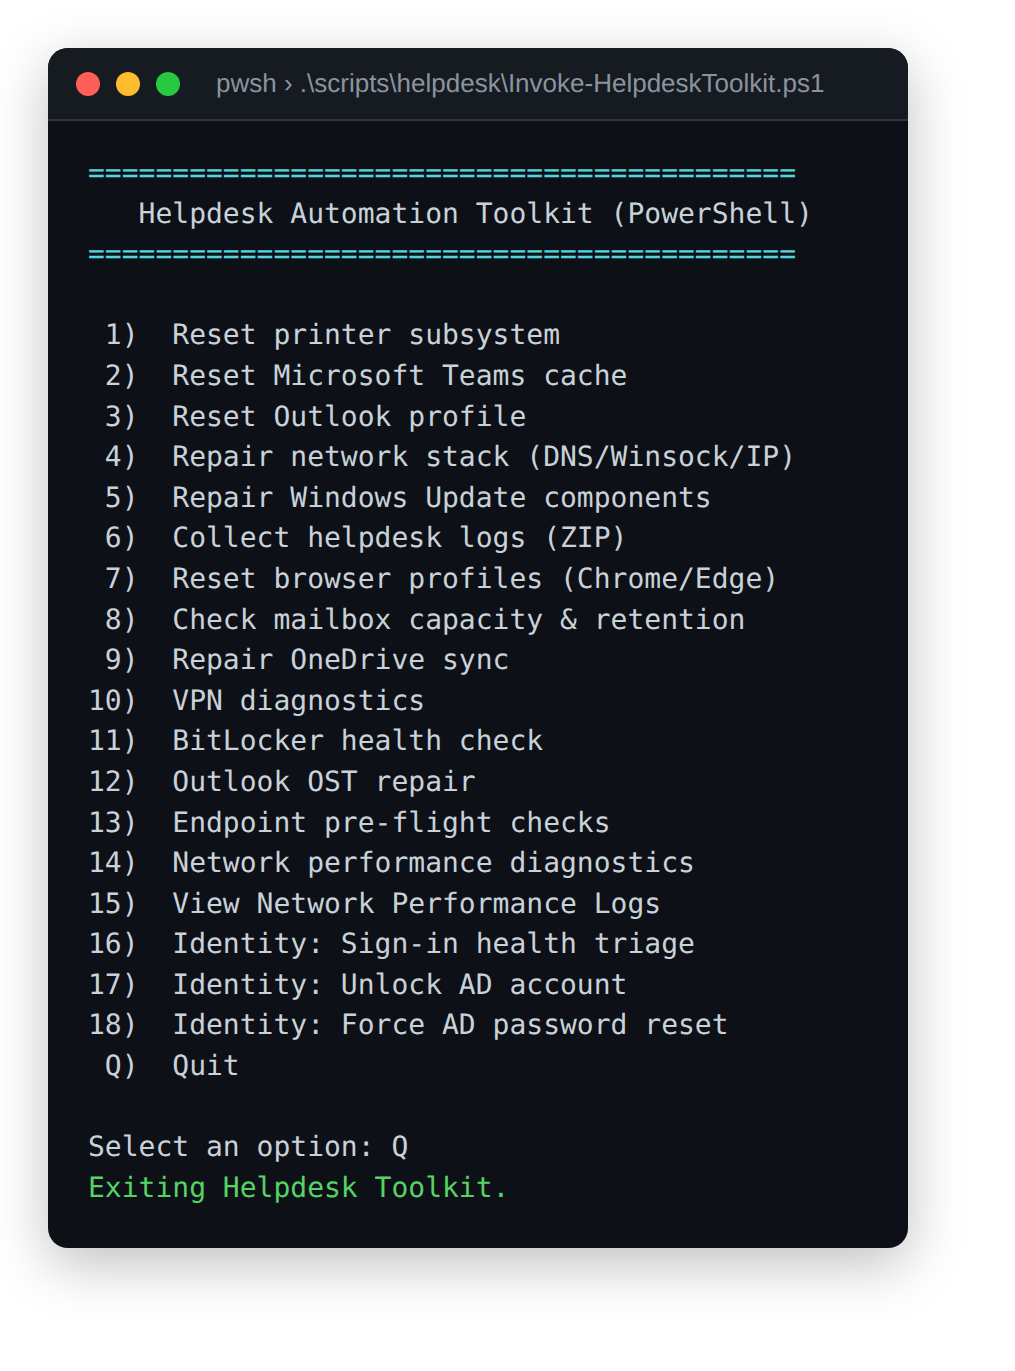
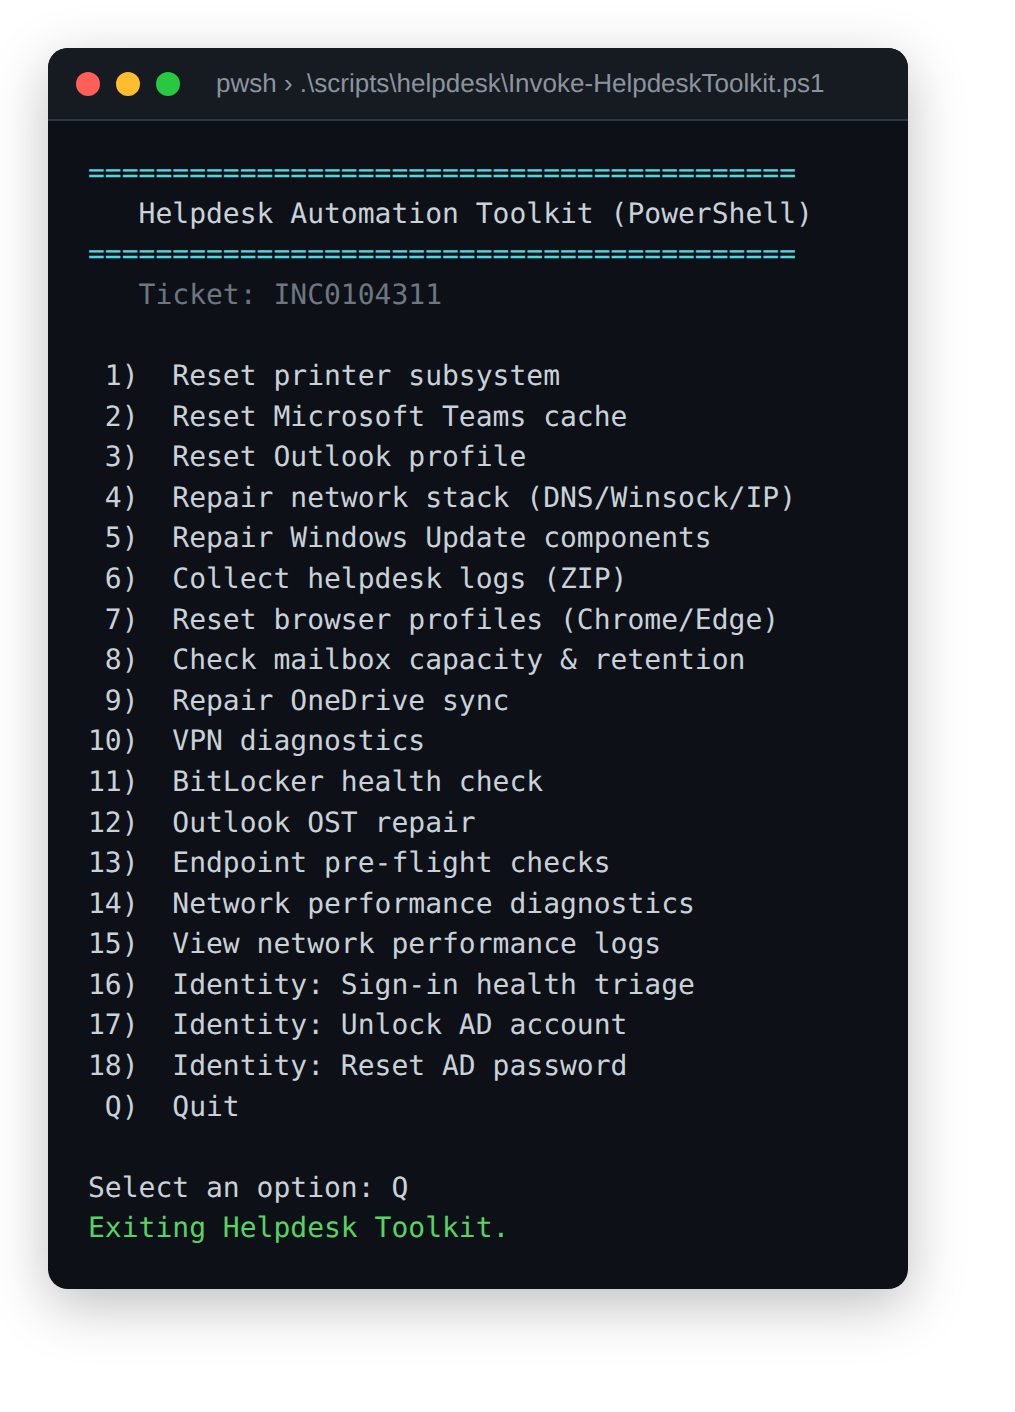
Add demo GIF and usage screenshot; document offboarding, remediations, metrics
- docs/images/demo.gif: real captured output (Intune baseline dry run,
  toolkit usage totals and top fixes, offboarding test run); operator
  name and home path redacted. Replaces the static hero images.
- docs/images/report-toolkit-usage.png and a refreshed menu screenshot
  (ticket prompt, new labels).
- README: offboarding section, Intune Remediations table, "Measuring
  impact" section, updated architecture diagram, design decisions,
  test coverage, layout and roadmap.
- Export-PlaybookCsv shared CSV helper (no -NoTypeInformation warning
  on PowerShell 7) used across both modules and app removal.
- Versions: PowerShellPlaybook 0.4.0, Extensions 0.2.1; CHANGELOG.

diff --git a/README.md b/README.md
@@ -5,18 +5,17 @@
 [![License: MIT](https://img.shields.io/badge/License-MIT-blue.svg)](LICENSE)
 
 PowerShell automation for the work that fills a service desk queue and an infrastructure team's week:
-repeatable endpoint repairs, identity triage, and health reports across Active Directory, Entra ID, Intune,
-Exchange Online, VMware, Azure and AWS.
+repeatable endpoint repairs, user offboarding, Intune remediations that fix problems before anyone calls,
+and health reports across Active Directory, Entra ID, Intune, Exchange Online, VMware, Azure and AWS.
+It also measures itself: every helpdesk fix is logged so you can report success rates and hours saved.
 
 It is built the way production tooling should be: every state-changing action supports `-WhatIf`,
 reports never fabricate data, everything runs on both Windows PowerShell 5.1 and PowerShell 7,
 and every change is linted and tested on Windows and Linux in CI.
 
-<p>
-  <img src="docs/images/helpdesk-toolkit-menu.png" alt="Helpdesk Toolkit menu" width="38%">
-  &nbsp;
-  <img src="docs/images/report-vmware-health.png" alt="VMware health report" width="58%">
-</p>
+<img src="docs/images/demo.gif" alt="Terminal demo: Intune baseline with -Enforce -WhatIf, toolkit usage totals, offboarding tests" width="100%">
+
+<sub>Real output recorded from this repo: an Intune baseline dry run, the toolkit usage report, and the offboarding test suite.</sub>
 
 ---
 
@@ -24,14 +23,18 @@ and every change is linted and tested on Windows and Linux in CI.
 
 | Component | Path | What it is for |
 |---|---|---|
-| **Helpdesk Toolkit** | `scripts/helpdesk/` | Menu-driven first-line fixes and diagnostics, run on the user's machine |
-| **`PowerShellPlaybook` module** | `src/` | Identity, security and endpoint reporting (AD, Entra ID, Intune, Exchange Online, Windows) |
+| **Helpdesk Toolkit** | `scripts/helpdesk/` | Menu-driven first-line fixes and diagnostics, run on the user's machine; every run is logged |
+| **Intune Remediations** | `remediations/` | Detect/fix script pairs Intune runs on every device on a schedule |
+| **`PowerShellPlaybook` module** | `src/` | Offboarding, identity, security and endpoint reporting (AD, Entra ID, Intune, Exchange Online, Windows), toolkit usage metrics |
 | **`PowerShell-Playbook.Extensions` module** | `src/` | Infrastructure and cloud health (patching, backups, vSphere, Azure/AWS, Microsoft 365) |
 | **Automation scripts** | `scripts/automation/`, `scripts/` | Standalone jobs: bulk user onboarding, standard software builds, AD exports, endpoint hardening |
 
 ### Helpdesk Toolkit
 
 `Invoke-HelpdeskToolkit.ps1` is a numbered menu over these scripts; each can also be run on its own.
+It asks for the ticket ID once per session.
+
+<img src="docs/images/helpdesk-toolkit-menu.png" alt="Helpdesk Toolkit menu" width="38%">
 
 | Repairs | Diagnostics | Identity |
 |---|---|---|
@@ -43,12 +46,42 @@ and every change is linted and tested on Windows and Linux in CI.
 | Chrome/Edge profile cache | Log bundle (ZIP, ticket-ID named) | |
 | OneDrive sync | | |
 
-Diagnostic and identity scripts log to `out/HelpdeskLogs/`, with the ticket ID in the file name when one is passed (`-TicketId INC12345`).
+Every fix run through the menu appends one JSON line to `out/HelpdeskLogs/toolkit-runs.jsonl`: fix, ticket,
+technician, duration and outcome (Success / Failed / Cancelled). See [Measuring impact](#measuring-impact).
+
+### Offboarding
+
+```powershell
+Invoke-UserOffboarding -Identity jdoe -TicketId CHG0012345 -WhatIf      # full plan, nothing changed
+Invoke-UserOffboarding -Identity jdoe -TicketId CHG0012345 -DisabledOU 'OU=Disabled Users,DC=corp,DC=local'
+Undo-UserOffboarding  -SnapshotPath .\reports\Offboarding-jdoe-CHG0012345-....snapshot.json
+```
+
+1. **Snapshot.** Before changing anything, it writes a JSON snapshot of the account: groups, OU, description, enabled state and mailbox settings.
+2. **Security steps first:**
+   - disable the AD account
+   - reset the password to a random value nobody knows
+   - revoke Entra ID sessions
+3. **Clean-up:**
+   - stamp the AD description with the date, ticket and operator
+   - remove group memberships
+   - move the account to the disabled OU
+4. **Hand-over:**
+   - convert the mailbox to shared, with an auto-reply, hidden from the address book
+   - give the manager Full Access to the mailbox and access to the OneDrive
+
+How it behaves:
+- **Every step is confirmable.** Each goes through `-WhatIf`/`-Confirm`.
+- **Missing connections don't fail the run.** A step whose cloud connection is missing is marked Skipped.
+- **One failure doesn't stop the rest.** A failed step is recorded and the remaining steps still run.
+- **Undo restores the snapshot.** `Undo-UserOffboarding` puts back everything recorded in it.
 
 ### `PowerShellPlaybook` module
 
 | Command | Purpose |
 |---|---|
+| `Invoke-UserOffboarding` / `Undo-UserOffboarding` | Leaver workflow across AD, Entra ID, Exchange Online and OneDrive, with snapshot-based undo |
+| `Get-ToolkitUsageReport` | Helpdesk Toolkit runs, success rate per fix and estimated hours saved |
 | `Get-InactiveAdAccounts` | Users with no logon in N days |
 | `Send-PasswordExpiryNotifications` | Builds per-user password-expiry notices and a summary (preview only; delivery is on the roadmap) |
 | `Get-ConditionalAccessReport` | Entra ID Conditional Access policies: state, scope, controls |
@@ -86,6 +119,36 @@ and accepts `-Mock` for sample data.
 
 <sub>Screenshots show real output from this repo run with <code>-Mock</code>; rows are tagged <code>Source = Mock</code> and titles say "sample data".</sub>
 
+### Intune Remediations
+
+Detection and remediation pairs in [`remediations/`](remediations/README.md), published to Intune with
+`Publish-IntuneRemediation.ps1` (Microsoft Graph, idempotent by display name):
+
+| Remediation | Detects | Fixes |
+|---|---|---|
+| `LowDiskSpace` | System drive under 10% / 10 GB free | Clears temp, Windows Update and Delivery Optimization caches (old files only) |
+| `TeamsCacheSize` | New Teams cache over 1 GB | Clears it only while Teams is closed |
+| `TimeSync` | W32Time stopped, no time source, or skew over 60 s | Restores domain/NTP sync and forces a resync |
+| `StaleWindowsUpdate` | No successful update in 35 days or update services disabled | Re-enables the services and triggers a scan |
+
+---
+
+## Measuring impact
+
+`Get-ToolkitUsageReport` turns the toolkit's run log into numbers a service desk manager cares about. For each fix it shows:
+- runs, success rate and average duration
+- **minutes saved**, against a per-fix manual-effort baseline you can tune (`src/config/helpdesk-baselines.json`)
+
+Fixes that fail often are flagged Warn or Fail, so you know which automation needs work.
+
+```powershell
+Get-ToolkitUsageReport -Since (Get-Date).AddDays(-30)
+```
+
+<img src="docs/images/report-toolkit-usage.png" alt="Helpdesk Toolkit usage report" width="80%">
+
+<sub>Generated with <code>-Mock</code> (deterministic sample data). Against a real run log, the same report shows your team's numbers.</sub>
+
 ---
 
 ## Quick start
@@ -105,6 +168,7 @@ Invoke-Item $r.Html                     # ./out/<date>/Get-VMwareHealth/...
 Import-Module ./src/PowerShellPlaybook.psd1
 Get-ConditionalAccessReport -Environment Dev
 Invoke-IntuneBaseline -Environment Dev -Enforce -WhatIf
+(Get-ToolkitUsageReport -Mock).Totals
 
 # Helpdesk menu (Windows)
 .\scripts\helpdesk\Invoke-HelpdeskToolkit.ps1
@@ -132,6 +196,8 @@ flowchart LR
     subgraph Endpoint["User's machine"]
         menu["Invoke-HelpdeskToolkit.ps1"] --> fixes["Repair-* / Reset-* / Test-* scripts"]
         fixes --> hlogs["out/HelpdeskLogs<br/>(ticket-named logs, ZIP)"]
+        menu --> runs["toolkit-runs.jsonl<br/>(fix, ticket, outcome, duration)"]
+        rem["Intune Remediations<br/>Detect.ps1 / Remediate.ps1"]
     end
 
     subgraph Admin["Admin workstation / jump host"]
@@ -142,7 +208,12 @@ flowchart LR
         ext --> reports
         core --> jsonl["logs/&lt;date&gt;/run.jsonl"]
         reports --> ticket["Publish-ReportToTicket"]
+        runs --> usage["Get-ToolkitUsageReport"]
+        pub["Publish-IntuneRemediation"]
     end
+
+    pub -. Graph .-> intune[("Intune")]
+    intune -. scheduled .-> rem
 
     core -. Graph / EXO / AD .-> m365[("Entra ID, Intune,<br/>Exchange Online, AD")]
     ext -. vendor modules .-> infra[("vSphere, Veeam, ConfigMgr,<br/>Azure, AWS, M365")]
@@ -155,8 +226,9 @@ flowchart LR
 **Safe by default.** Everything that changes state supports `-WhatIf` and `-Confirm`, and tests check that
 `-WhatIf` changes nothing. Repairs are as narrow as possible. For example, the Teams reset clears only the
 documented cache folders and leaves the install folder and the Outlook add-in alone, and the Windows Update
-reset renames its cache folders rather than deleting them. The identity scripts exit non-zero on failure, so RMM tools
-and scheduled tasks can tell a failed run from a successful one.
+reset renames its cache folders rather than deleting them. Offboarding snapshots the account first so it can
+be undone, and the Windows hardening scripts have `-Revert`. Scripts exit non-zero on failure, so RMM tools,
+Intune and scheduled tasks can tell a failed run from a successful one.
 
 **Never invent data.** A report either queries the live system or says it could not
 (`Status = NotConnected`, with the command to fix it). Sample data appears only when explicitly requested
@@ -170,8 +242,15 @@ account, requires a change at first logon, and never writes generated passwords 
 **Runs where the tickets are.** Stock Windows endpoints ship Windows PowerShell 5.1, so all code is
 5.1-compatible. CI enforces this with `PSUseCompatibleSyntax`.
 
-**Readable output.** Reports share one status model (OK / Warn / Fail) with colour-coded HTML and a CSV
-for each, and the run log is JSON Lines that can be sent straight to a SIEM.
+**Fix it before the ticket.** Recurring issues (disk space, Teams cache, clock drift, stalled updates) are
+handled fleet-wide by Intune Remediations. Those scripts are conservative by design: they never close an app
+the user is in, and they leave heavy repairs to a technician.
+
+**Measure it.** Every toolkit fix is logged, so the value of the automation is a report, not an anecdote.
+
+**Readable output.** Every report in both modules comes from one shared builder (`src/Shared`). They share a
+status model (OK / Warn / Fail), colour-coded HTML and a CSV each, and the logs are JSON Lines that can go
+straight to a SIEM.
 
 ---
 
@@ -187,13 +266,18 @@ make lint          # PSScriptAnalyzer only
 
 GitHub Actions runs on **Windows and Ubuntu** for every pull request:
 
-- **PSScriptAnalyzer** over `src/` and `scripts/` with shared settings (`PSScriptAnalyzerSettings.psd1`); errors fail the build
+- **PSScriptAnalyzer** over `src/`, `scripts/` and `remediations/` with shared settings (`PSScriptAnalyzerSettings.psd1`); errors fail the build
 - **Windows PowerShell 5.1 syntax compatibility** check across the repo
-- **Pester** (about 150 tests):
+- **Pester** (about 230 tests):
   - Every PowerShell file parses.
-  - Every exported command has help.
+  - Every exported command and hardening script has help.
   - Manifests match the code.
-  - Behavior tests use Pester mocks in place of AD, Azure, Veeam and user-profile paths, so the live code paths run without real infrastructure. Examples: a password reset under `-WhatIf` changes nothing, a failed reset exits 1, Azure disks are graded correctly, and Veeam jobs are checked against the RPO.
+  - No script has a switch that defaults to on.
+  - Behavior tests use Pester mocks in place of AD, Graph, Exchange Online, SharePoint, Azure, Veeam, Windows services, `w32tm`, Windows Update COM and user-profile paths, so the live code paths run without real infrastructure. Examples:
+    - offboarding under `-WhatIf` changes nothing
+    - undo restores every recorded group
+    - the Teams remediation waits while Teams is open
+    - the usage report's time-saved maths
 - Test runs write only to Pester's `TestDrive`, never into the repo
 
 ---
@@ -204,11 +288,13 @@ GitHub Actions runs on **Windows and Ubuntu** for every pull request:
 src/
   PowerShellPlaybook.psd1/.psm1          Core module (exports src/Public/*)
   PowerShell-Playbook.Extensions.*       Infrastructure and cloud module
-  Public/  Private/  config/             Exported commands, helpers, per-environment config
+  Public/  Private/  config/             Exported commands, helpers, per-environment config and baselines
+  Shared/                                Report and CSV helpers used by both modules
 scripts/
   helpdesk/                              Helpdesk Toolkit menu and its scripts
   automation/                            Standalone jobs (onboarding, builds, repairs)
-  *.ps1                                  AD export, endpoint hardening, module staging
+  *.ps1                                  AD export, Windows 11 hardening, module staging
+remediations/                            Intune detection/remediation pairs and their publisher
 config/                                  Software build and app-removal policies
 tests/                                   Pester suite
 docs/                                    Script notes and screenshots
@@ -230,7 +316,7 @@ Other automation scripts are described in [docs/automation-scripts.md](docs/auto
 - Email delivery for `Send-PasswordExpiryNotifications` (Microsoft Graph `Send-MgUserMail`)
 - GPO / RSoP troubleshooting in the Helpdesk Toolkit
 - Publish the modules to an internal PowerShell repository from CI on tagged releases
-- Bring the older `PowerShellPlaybook` reports onto the shared OK / Warn / Fail report builder
+- Feed Intune remediation results (Graph `deviceHealthScriptStates`) into the usage report
 
 ## License
 

diff --git a/CHANGELOG.md b/CHANGELOG.md
@@ -4,7 +4,26 @@ All notable changes to PowerShell Playbook are documented here. Versions refer t
 
 ---
 
-## [Unreleased] (0.3.0)
+## [Unreleased] (0.4.0)
+
+### Added
+- **Offboarding:** `Invoke-UserOffboarding` takes a JSON snapshot, then runs the security steps first (disable, random password, revoke Entra sessions), then clean-up (description, groups, disabled OU) and hand-over (shared mailbox, auto-reply, hide from address book, mailbox/OneDrive delegation to the manager). `Undo-UserOffboarding` restores from the snapshot. Every step supports `-WhatIf`; missing cloud sessions are Skipped; failures are recorded without stopping the run.
+- **Intune Remediations** (`remediations/`): `LowDiskSpace`, `TeamsCacheSize`, `TimeSync`, `StaleWindowsUpdate` detect/remediate pairs, plus `Publish-IntuneRemediation.ps1` (Graph, create-or-update by name, optional daily group assignment).
+- **Usage metrics:** the Helpdesk Toolkit logs every fix run (fix, ticket, technician, duration, outcome) to `out/HelpdeskLogs/toolkit-runs.jsonl`. `Get-ToolkitUsageReport` reports success rate per fix and hours saved against `src/config/helpdesk-baselines.json`; `-Mock` gives deterministic sample data.
+- Demo GIF and toolkit usage screenshot in the README.
+
+### Changed
+- **One report style:** `src/Shared/ConvertTo-ReportHtml.ps1` is the only report builder, used by both modules and the app-removal script. Certificate and Defender reports gain a Status column. `Export-PlaybookCsv` writes CSVs on 5.1 and 7 without warnings.
+- **Helpdesk Toolkit menu:** table-driven. Asks for the ticket once per session. A missing fix script counts as a failure.
+- **Windows 11 hardening scripts:** full help; `-Setting`/`-Revert`/`-SkipProvisioned`/`-Skip*` replace switches that defaulted to `$true`; `-Revert` removes policy values instead of writing the opposite value; the app-removal report records each package's outcome and is written even under `-WhatIf`.
+
+### Fixed
+- `Invoke-IntuneBaseline -WhatIf` wrote no report.
+- `Remove-PreinstalledApps` had a no-op `-WriteReport` switch, and resolved its policy file relative to the current directory.
+
+---
+
+## [0.3.0] - 2026-11-27
 
 ### Changed
 - **Extensions module** no longer returns placeholder numbers. Each report function queries the live system through the vendor module's session, returns a `NotConnected` row with guidance when it can't, or returns labelled sample data with `-Mock`. Rows are graded OK / Warn / Fail; HTML reports are colour-coded and HTML-encoded. Removed the no-op `-Remediate` switch and the simulated restore test.
